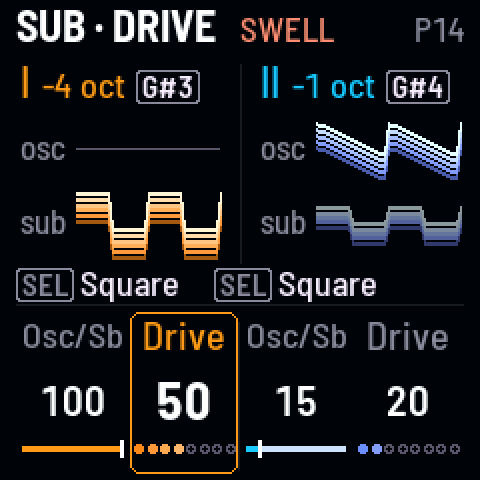
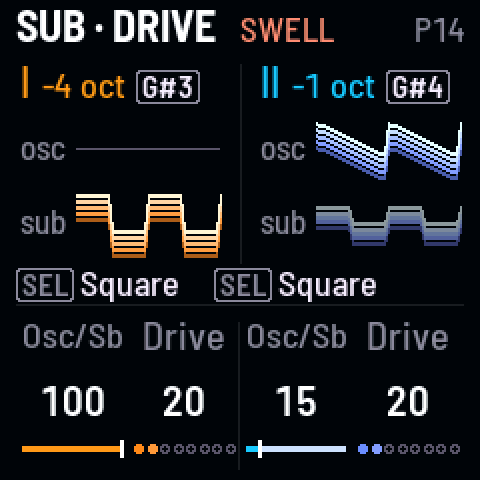
Recipes: Ticks and clicks as Evan plays it: Osc/Sb to the sub, -4 oct, the pitch quickly to 22 Hz; the clip is the clicks, no Drive added

diff --git a/docs/manual/recipes/sounds.md b/docs/manual/recipes/sounds.md
@@ -13,31 +13,25 @@ image: ticks-1.png
 
 *A sub so low it breaks into clicks, a few a second*
 
-Put drone I's sub four octaves down and all the way in, and it stops being a tone: a fast flutter. Turn drone I's
-pitch down to about 22 Hz and the flutter slows into clicks, about 3 a second, a pulse to play against drone II.
+Put drone I's sub four octaves down, all the way in, and turn drone I down to about 22 Hz: the sub stops being a
+tone and becomes clicks, about 3 a second, a pulse to play against drone II.
 
-1. Press [[EDIT]] twice for **Sub · Drive**, and tap [[G#3]], drone I's sub, until the screen says **−4 oct**. It
-   goes round −1, −2, ⅓, ⅕, −3, −4.
-2. Turn KNOB 1, Osc/Sb, all the way to the sub: **100**. The sub flutters, fast.
-3. Turn KNOB 2, Drive, up for a harder click.
-4. Press [[HOME]] twice for **Pitch**, and turn KNOB 1, drone I's pitch, down past **A0**, where the screen turns to
-   Hz, to about **22 Hz**: clicks, about 3 a second. Lower, they slow to one every second or two.
+1. Press [[EDIT]] twice for **Sub · Drive**, and turn KNOB 1, Osc/Sb, all the way to the sub: **100**.
+2. Tap [[G#3]], drone I's sub, until the screen says **−4 oct**. It goes round −1, −2, ⅓, ⅕, −3, −4.
+3. Press [[HOME]] twice for **Pitch**, and turn KNOB 1, drone I's pitch, quickly down past **A0**, where the screen
+   turns to Hz, to about **22 Hz**: clicks.
 
 > **Good to know.** The clicks a second are drone I's pitch ÷ 8 (the sub is ÷ 16, two clicks to its cycle): at D3, 18
 > a second; at A0 (27.5 Hz), about 3; at 22 Hz, 2.7; at 5 Hz, one every 1.6 s. The clicks reach the speaker, though
 > the hum under them doesn't. The **Tick** gesture ([[G4]]) does this on its own, faster as you press harder. Or take
 > drone I itself under 20 Hz with Osc/Sb at 0: a click each cycle, as in **Sonar** (P7).
 
-![Sub · Drive, drone I's sub at -4 oct, Osc/Sb 100, Drive 50](../media/ticks-0.png "−4 oct, all sub, Drive 50")
-![Pitch, drone I at 22 Hz](../media/ticks-1.png "drone I down to 22 Hz")
+![Sub · Drive, drone I's sub at -4 oct, Osc/Sb 100](../media/ticks-0.png "−4 oct, all sub")
+![Pitch, drone I at 22 Hz](../media/ticks-1.png "drone I at 22 Hz")
 
 **Listen** (`ticks`)
 
-- 0:00 P14 Tape as it starts: worn, a hum under it
-- 0:01 Drone I's sub at −4 oct, all the way in: a fast flutter, about 18 a second
-- 0:04 Drive up: each tick gets a harder edge
-- 0:06 Drone I's pitch turned down quickly, past A0 to 22 Hz: the flutter slows into clicks
-- 0:08 Held at 22 Hz: clicks, about 3 a second, under drone II
+- 0:00 Drone I at 22 Hz, its sub at −4 oct and all sub: clicks, about 3 a second, under drone II
 
 ### A singing filter {#sing}
 
